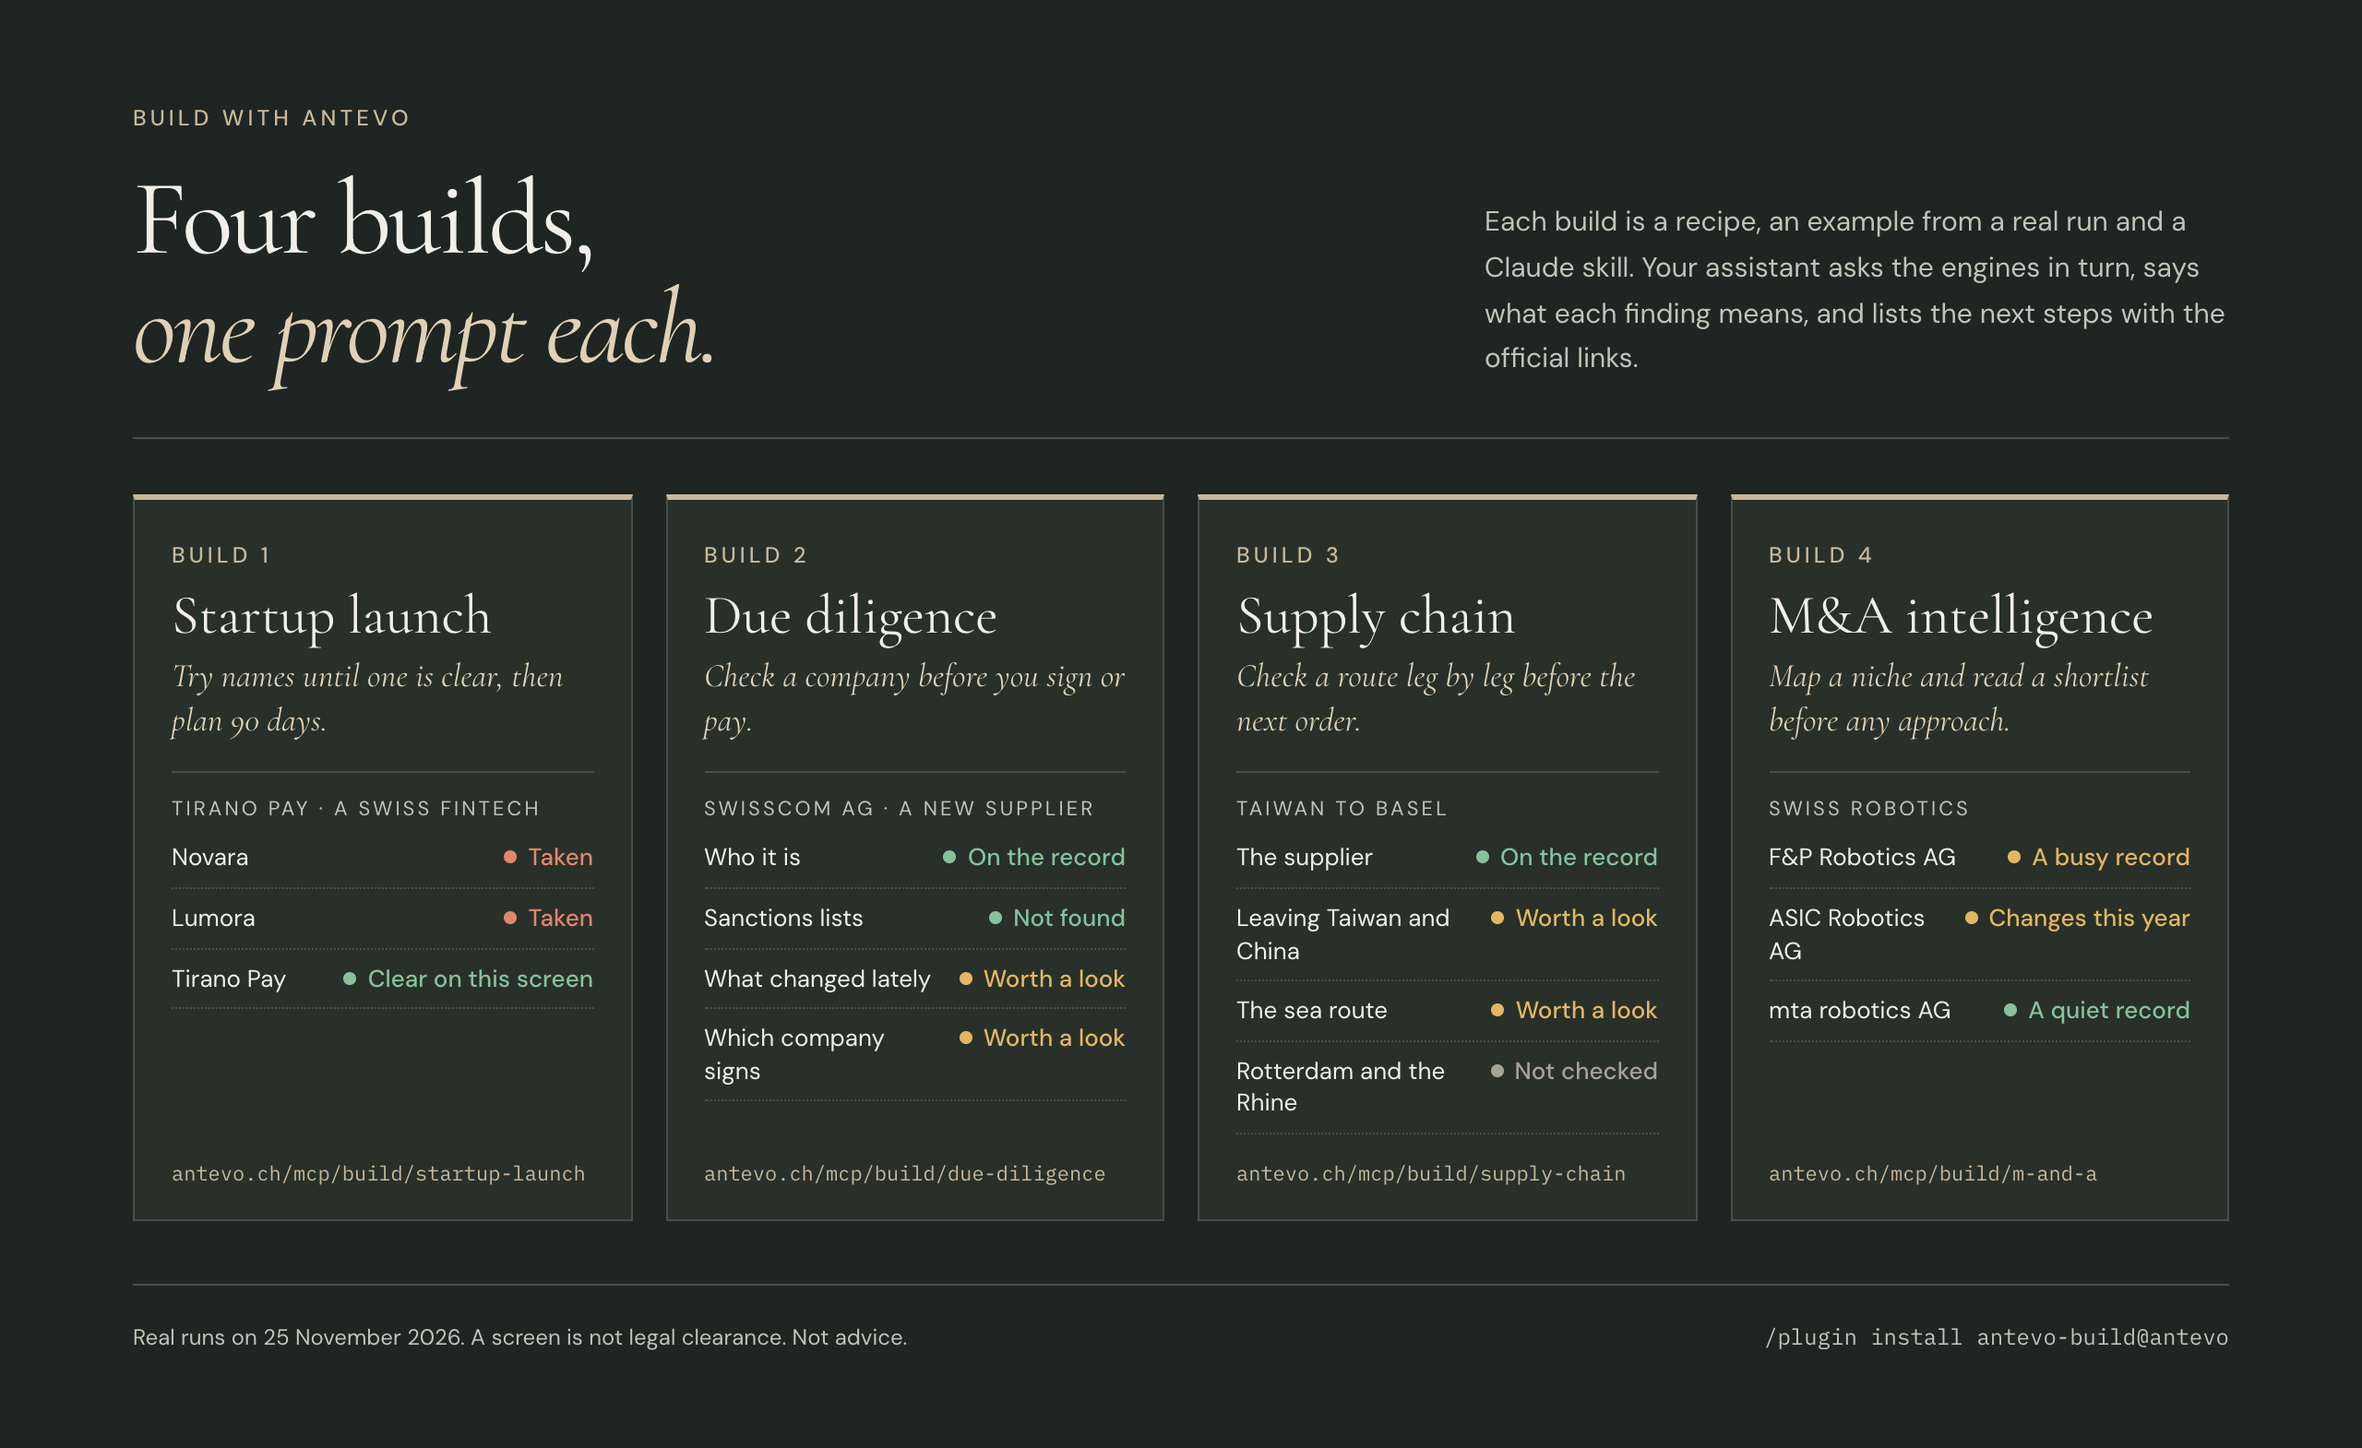
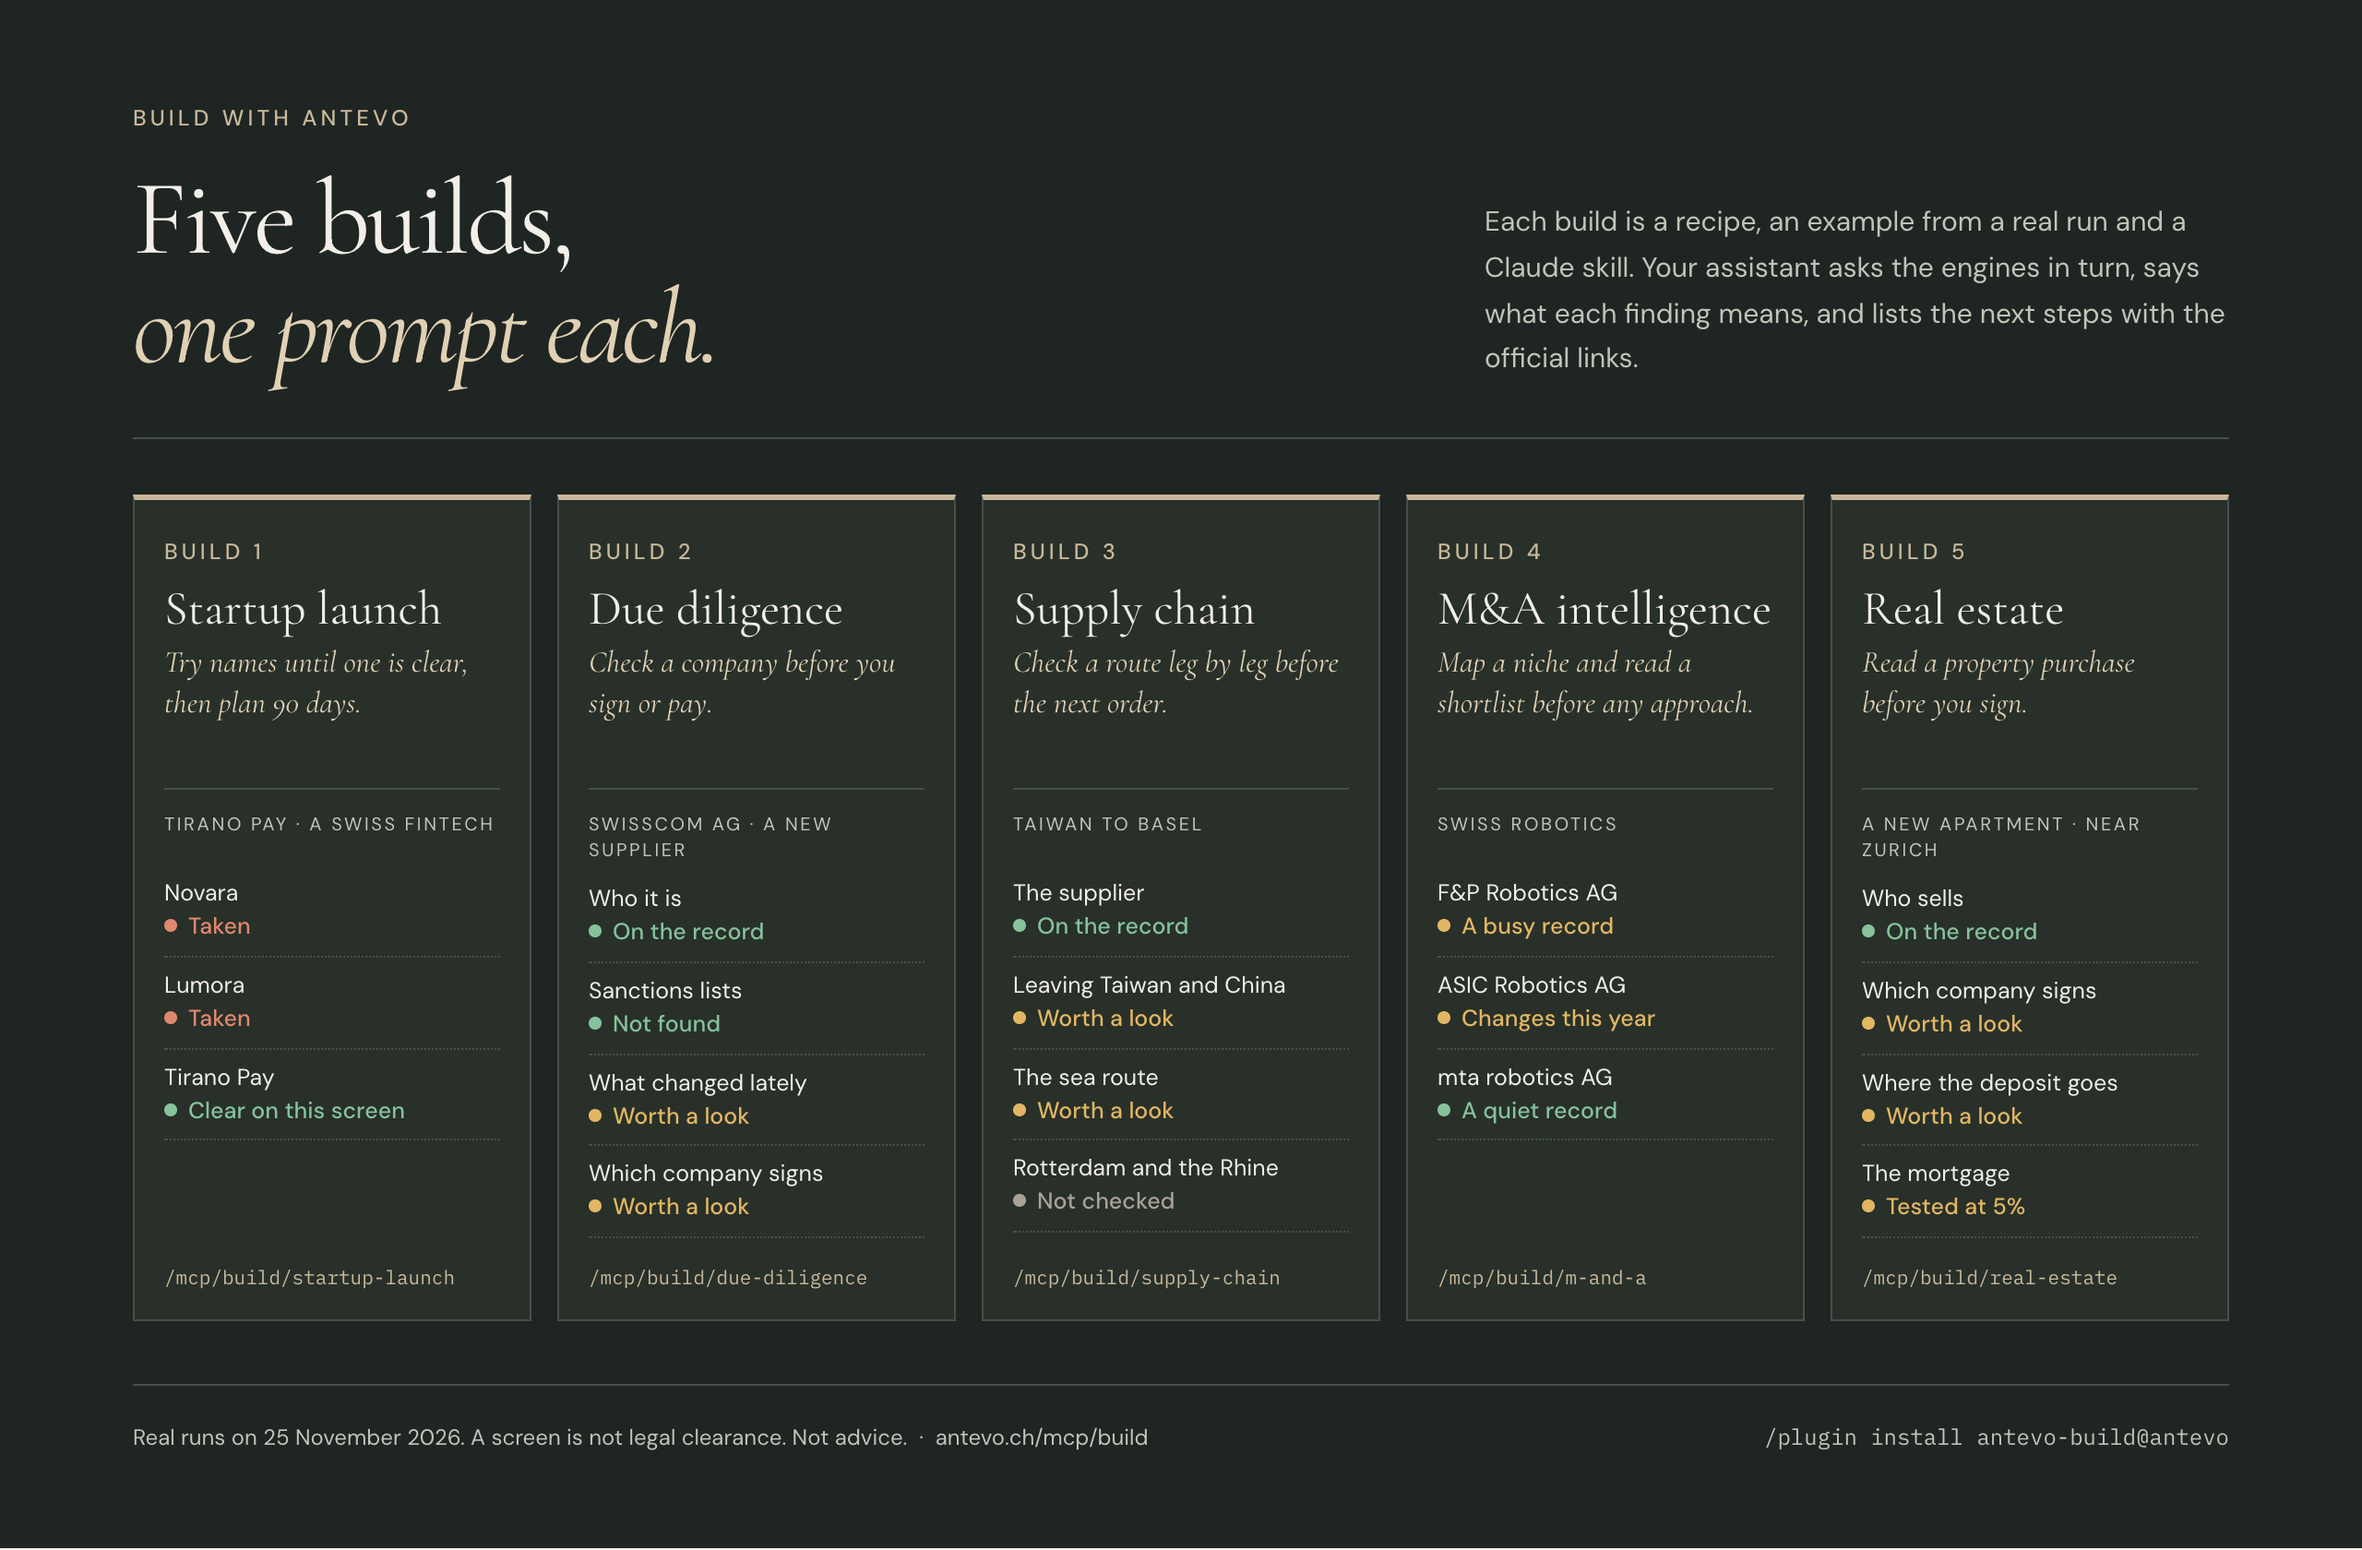
Profile: five builds, 43 skills
Real estate acquisition joins the builds; the builds picture shows five cards.

diff --git a/profile/README.md b/profile/README.md
@@ -20,7 +20,7 @@
 
 **Antevo makes intelligence products for trademarks, company records, private wealth and market risk.** It connects developments in the world to the things you own, manage and protect, with the record behind each connection. Bring it into the assistant you already use: Claude, ChatGPT, Cursor, VS Code, Gemini CLI, Kiro, or a terminal. [What is Antevo?](https://antevo.ch/about/)
 
-<p align="center"><b><a href="https://github.com/ANTEVO-CH/plugins">Start with ANTEVO-CH/plugins →</a></b><br><sub>Eight plugins and 42 skills for Claude, one install each</sub></p>
+<p align="center"><b><a href="https://github.com/ANTEVO-CH/plugins">Start with ANTEVO-CH/plugins →</a></b><br><sub>Eight plugins and 43 skills for Claude, one install each</sub></p>
 
 ## The engines
 
@@ -53,11 +53,11 @@ All nine are listed in the official [MCP Registry](https://registry.modelcontext
 <a href="https://antevo.ch/mcp/build/">
 <picture>
   <source media="(prefers-color-scheme: dark)" srcset="https://raw.githubusercontent.com/ANTEVO-CH/.github/main/profile/assets/builds-dark.png">
-  <img alt="Four builds, one prompt each: Startup launch, Due diligence, Supply chain and M&A intelligence, each with its real run of 25 November 2026." src="https://raw.githubusercontent.com/ANTEVO-CH/.github/main/profile/assets/builds-light.png" width="100%">
+  <img alt="Five builds, one prompt each: Startup launch, Due diligence, Supply chain, M&A intelligence and Real estate, each with its real run of 25 November 2026." src="https://raw.githubusercontent.com/ANTEVO-CH/.github/main/profile/assets/builds-light.png" width="100%">
 </picture>
 </a>
 
-Each build is a recipe, an example from a real run and a Claude skill in `antevo-build`. [Startup launch](https://antevo.ch/mcp/build/startup-launch/) · [Due diligence](https://antevo.ch/mcp/build/due-diligence/) · [Supply chain](https://antevo.ch/mcp/build/supply-chain/) · [M&A intelligence](https://antevo.ch/mcp/build/m-and-a/)
+Each build is a recipe, an example from a real run and a Claude skill in `antevo-build`. [Startup launch](https://antevo.ch/mcp/build/startup-launch/) · [Due diligence](https://antevo.ch/mcp/build/due-diligence/) · [Supply chain](https://antevo.ch/mcp/build/supply-chain/) · [M&A intelligence](https://antevo.ch/mcp/build/m-and-a/) · [Real estate](https://antevo.ch/mcp/build/real-estate/)
 
 ```text
 /plugin marketplace add ANTEVO-CH/plugins
@@ -119,7 +119,7 @@ gemini extensions install https://github.com/ANTEVO-CH/antevo-mcp
 | | |
 |:--|:--|
 | [**antevo-mcp**](https://github.com/ANTEVO-CH/antevo-mcp) | Connection metadata — registry manifests, Cursor plugins, Kiro powers, the Gemini CLI extension and install links. MIT. |
-| [**plugins**](https://github.com/ANTEVO-CH/plugins) | Claude plugins: each connection with its skills, 42 in all, and four builds on top, one install each. |
+| [**plugins**](https://github.com/ANTEVO-CH/plugins) | Claude plugins: each connection with its skills, 43 in all, and five builds on top, one install each. |
 | [**cli**](https://github.com/ANTEVO-CH/cli) | `@antevo/cli` — the same connections from a terminal, scriptable. |
 
 <br>
